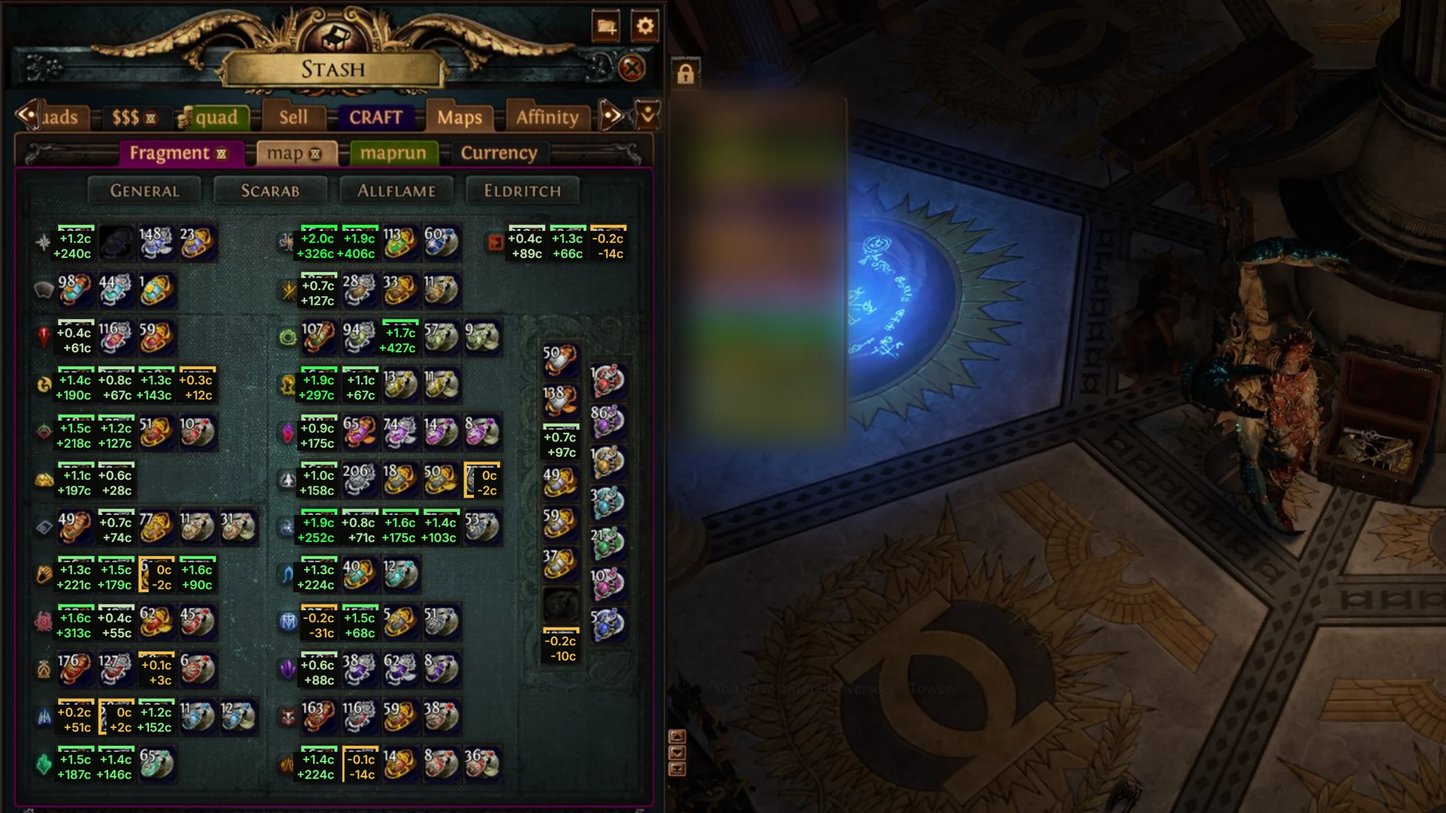
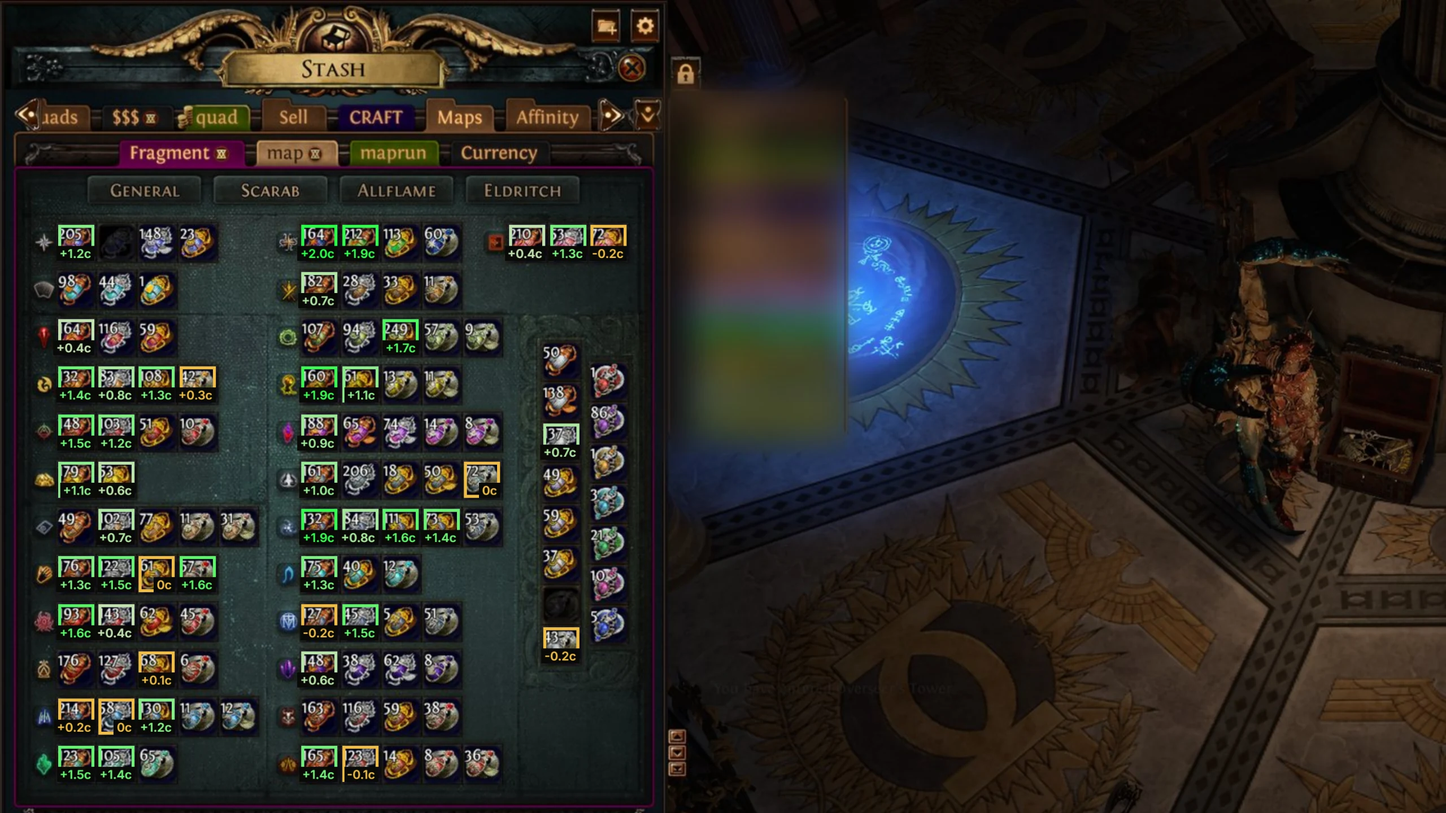
Landing shots: stash highlighter with the per-item figure only

diff --git a/testing/e2e/landing-highlights.spec.ts b/testing/e2e/landing-highlights.spec.ts
@@ -447,7 +447,7 @@ test('market: the flips window', async ({ overlay }) => {
 })
 
 test('market: scarabs to buy, outlined in your stash', async ({ overlay }) => {
-  await overlay.boot({ widgets: [{ wmType: 'woke-scarab-flip', stashHotkey: 'Alt + J' } as never] })
+  await overlay.boot({ widgets: [{ wmType: 'woke-scarab-flip', stashHotkey: 'Alt + J', stashTotals: false } as never] })
   await overlay.showScreen('screens/stash-scarab-real.png')
   await backdrop(overlay, 'frames/stash-scarabs.jpg')
   await overlay.pressHotkey('Alt + J')
